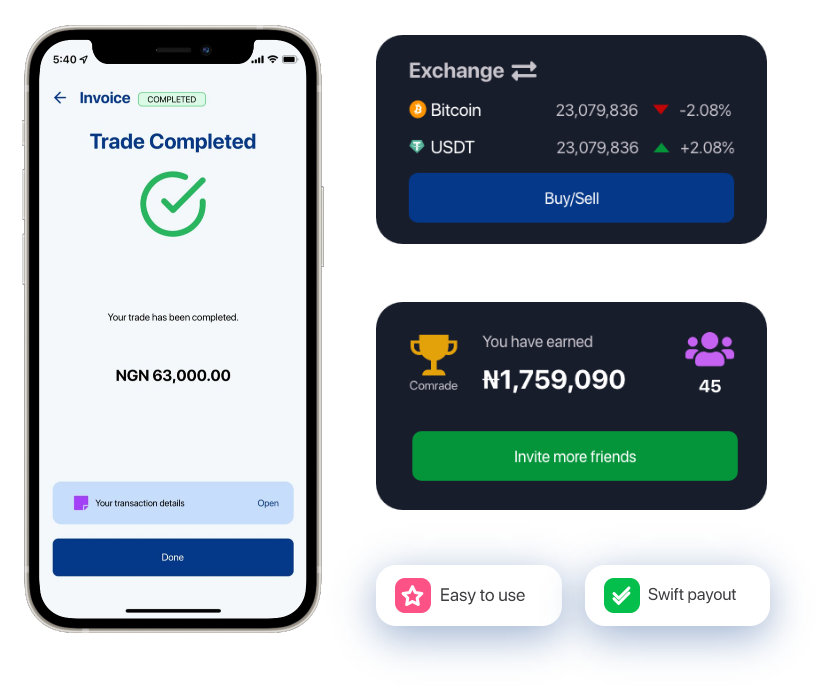
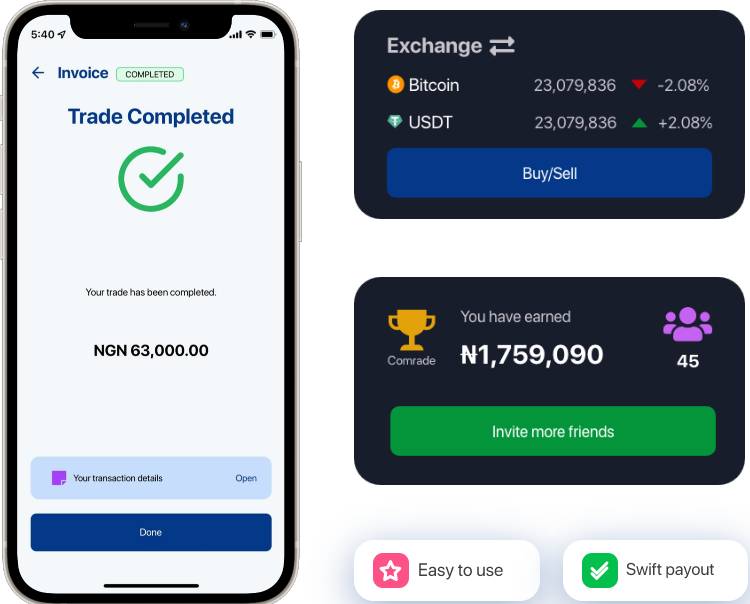
updated image, hamburger and spacing all round

diff --git a/components/home/GettingCrypto.vue b/components/home/GettingCrypto.vue
@@ -19,7 +19,11 @@
         >
       </div>
       <div class="right--card" data-aos="zoom-in" data-aos-once="true">
-        <div class="event--card">
+        <a
+          href="https://www.eventbrite.co.uk/e/talk-to-a-crypto-advisor-tickets-319295329927"
+          target="_blank"
+          class="event--card"
+        >
           <div class="card--top">
             <h4>Talk to a <br /><span>Crypto Advisor</span></h4>
           </div>
@@ -34,7 +38,7 @@
             <h1>Get expert answers to <br />all your crypto questions.</h1>
             <img class="event--coin" src="/img/bit3d.png" alt="bitcoin 3d" />
           </div>
-        </div>
+        </a>
       </div>
     </div>
   </section>
@@ -223,7 +227,8 @@ export default {
       padding: 0;
     }
     .right--card {
-      margin-top: 50px;
+      margin-bottom: 50px;
+      order: -1;
     }
     .right--card .event--card .card--base .event--coin {
       height: 120px;

diff --git a/assets/styles/pages/_home.scss b/assets/styles/pages/_home.scss
@@ -380,7 +380,7 @@
     display: flex;
     justify-content: space-between;
     align-items: center;
-    padding: 100px 30px;
+    padding: 100px 30px 0;
 
     @include respond(tab-port) {
       flex-direction: column;
@@ -440,7 +440,7 @@
   height: 100%;
 
   @include respond(tab-port) {
-    padding-top: 50px;
+    padding-top: 0px;
     padding-bottom: 50px;
   }
 
@@ -999,5 +999,14 @@
   }
   to {
     opacity: 1;
+  }
+}
+
+@media (max-width: 900px) {
+  .snx-description-con__child {
+    order: 1;
+  }
+  .snx-description-img-con .secure-lock-svg {
+    max-height: 100%;
   }
 }

diff --git a/components/NavBar.vue b/components/NavBar.vue
@@ -231,6 +231,7 @@ nav.home--nav.light {
   margin: 4px auto;
   transition: all 0.3s;
   backface-visibility: hidden;
+  border-radius: 1px;
 }
 
 #toggle.on .one {

diff --git a/components/home/EarnPassive.vue b/components/home/EarnPassive.vue
@@ -158,7 +158,7 @@ export default {
       padding: 0;
     }
     .earn--info {
-      margin-top: 100px;
+      margin-top: 50px;
     }
   }
 }
